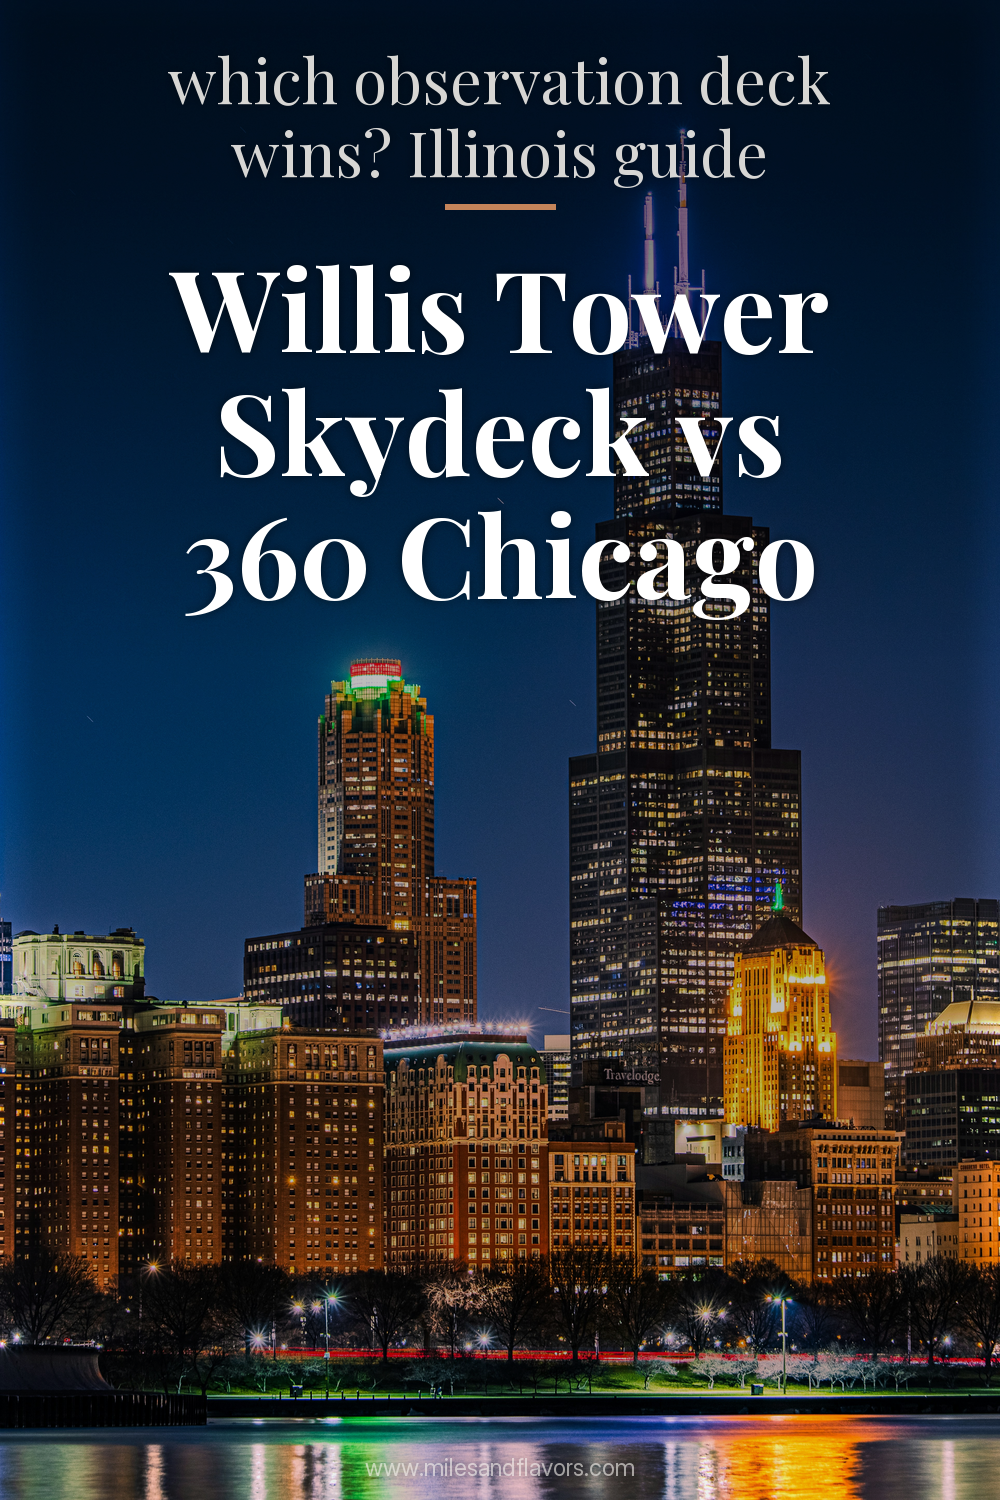
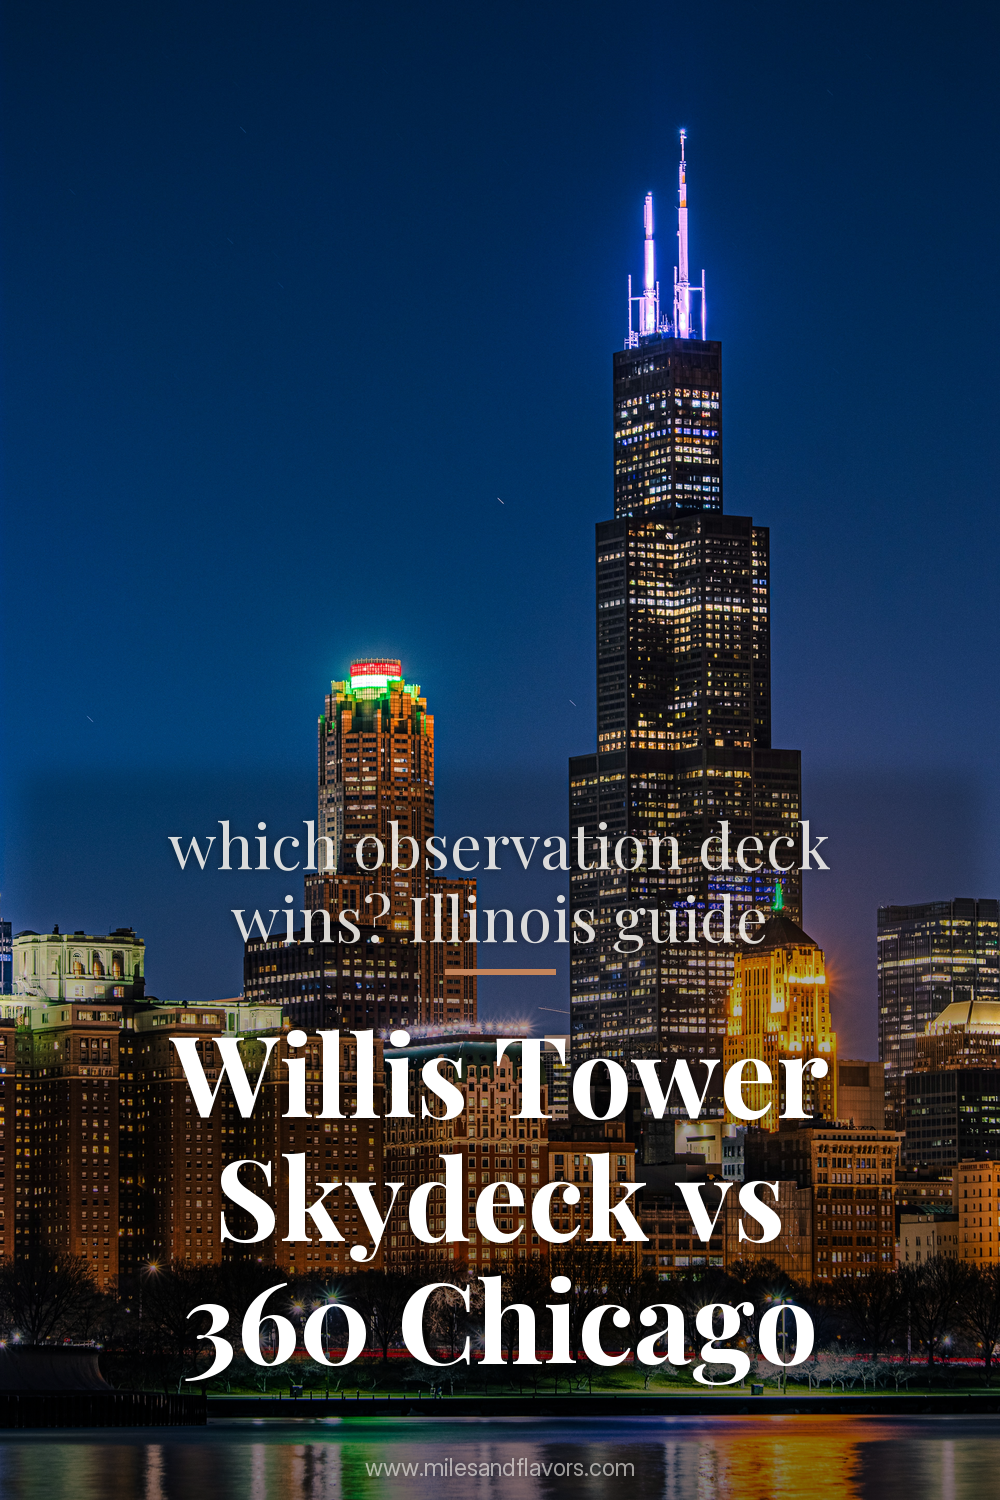
render: Jul 10-11 pins, text bottom everywhere + date-filter + mtime image sort

diff --git a/render.py b/render.py
@@ -347,7 +347,7 @@ def render_one(r, col):
     zone_override, overlay_alpha, brightness = parse_template(template)
 
     photos = [load(files[start])]
-    img = render_hybrid_pin(bold, light, photos, zone_override=zone_override, overlay_alpha=overlay_alpha, brightness=brightness)
+    img = render_hybrid_pin(bold, light, photos, zone_override="bottom", overlay_alpha=overlay_alpha, brightness=brightness)
     datum = r[col["Datum"]].strip() if "Datum" in col else ""
     ido   = r[col["Idopont"]].strip().replace(":", "-") if "Idopont" in col else ""
     if datum and ido:
@@ -360,7 +360,25 @@ def render_one(r, col):
 
 
 def main():
-    only = sys.argv[1] if len(sys.argv) > 1 else None
+    import datetime
+    arg = sys.argv[1] if len(sys.argv) > 1 else None
+
+    # Ha az arg dátum formátumú (YYYY.MM.DD), csak azt a napot rendeli
+    # Ha slug/cluster, csak azokat rendeli
+    # Ha nincs arg, csak a mai napot rendeli
+    today_str = datetime.date.today().strftime("%Y.%m.%d")
+    date_filter = None
+    slug_filter = None
+
+    if arg:
+        import re
+        if re.match(r"^\d{4}\.\d{2}\.\d{2}$", arg):
+            date_filter = arg
+        else:
+            slug_filter = arg
+    else:
+        date_filter = today_str
+        print(f"  [INFO] Csak mai pinek: {date_filter}")
 
     rows = list(csv.reader(open(PINS, encoding="utf-8-sig"), delimiter=";"))
     head = rows[0]; col = {name: i for i, name in enumerate(head)}
@@ -370,7 +388,14 @@ def main():
         if not r or not r[col["URL"]].startswith("http"): continue
         url_val = r[col["URL"]]
         slug = url_val.replace("https://milesandflavors.com/","").strip("/")
-        if only and only not in slug and only != cluster(slug): continue
+
+        if date_filter:
+            row_date = r[col["Datum"]].strip() if "Datum" in col else ""
+            if row_date != date_filter:
+                continue
+        elif slug_filter:
+            if slug_filter not in slug and slug_filter != cluster(slug):
+                continue
 
         result = render_one(r, col)
         if result: made += 1
